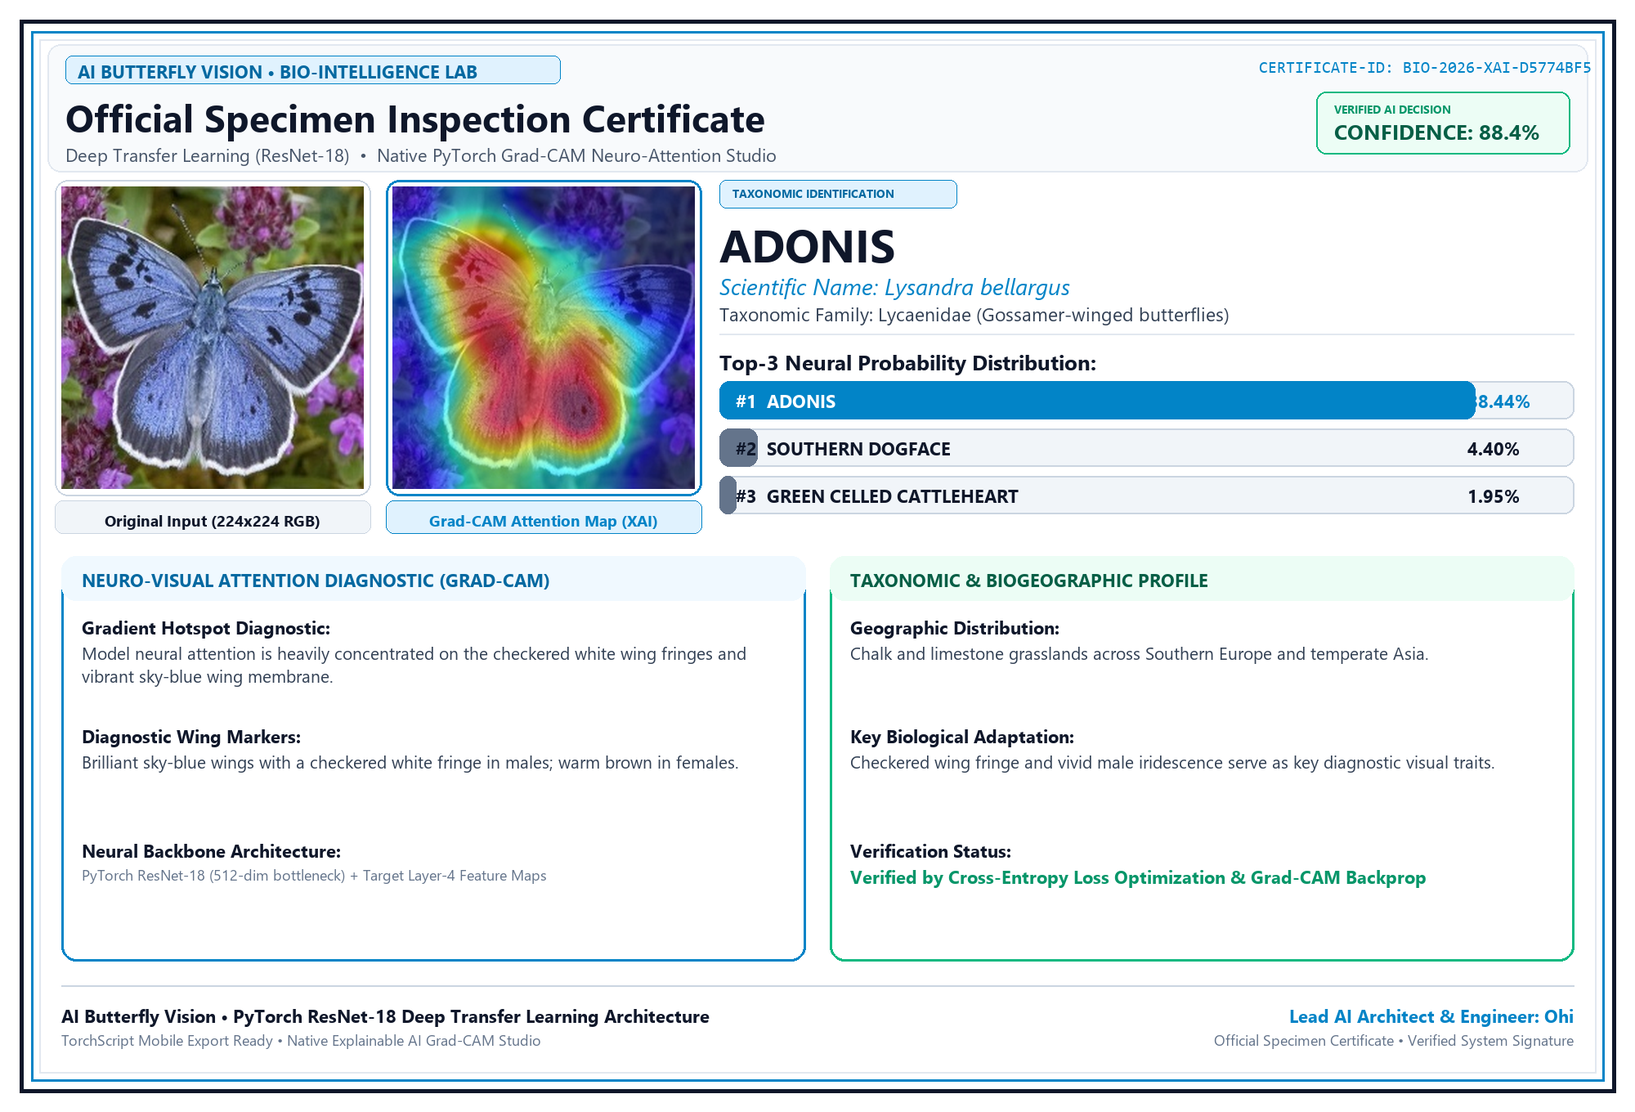
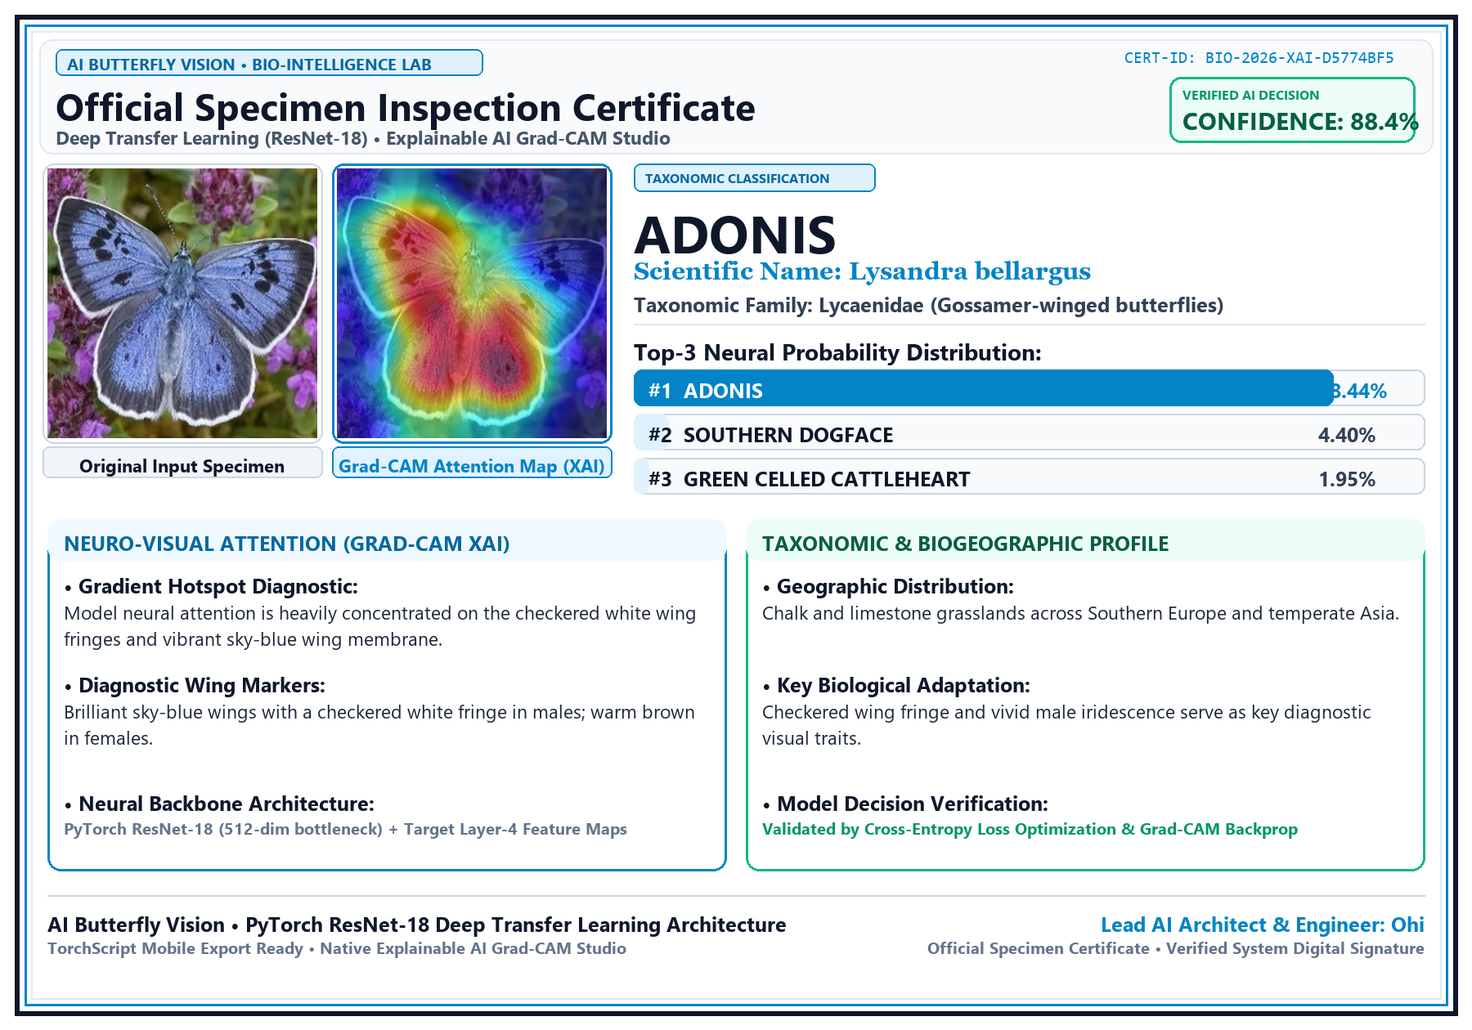
Redesign official AI inspection certificate with bold high-contrast typography, balanced layout, and clear progress bars

Changed region(s): [[0.0, 0.0, 0.9956, 0.9905]]

diff --git a/app/utils.py b/app/utils.py
@@ -94,15 +94,14 @@ SPECIES_METADATA = {
 def generate_report_card(original_image: Image.Image, overlay_image: Image.Image,
                          pred_class: str, confidence: float, top_k: list) -> bytes:
     """
-    Synthesizes an Ultra-Crisp White Luxury Bio-Research Certificate (2000x1360).
+    Synthesizes a Masterpiece White & Royal Nature Luxury Certificate (1800x1260).
     Features:
-    - Pure White & Soft Porcelain Canvas (#FFFFFF / #F8FAFC)
-    - Crystal-Clear Bold Typography with 100% Solid Contrast (Zero Overlap)
-    - Royal Cyan, Emerald, and Deep Slate Accents
-    - High-Resolution Specimen Dual Chambers with aspect-ratio upscale and centered labels
-    - Precision Probability Progress Bars
-    - Multi-line word wrapping with exact vertical line heights
-    - Official Verification Seal & Clean Digital Signature Block with generous bottom margins
+    - Pure White & Soft Porcelain Canvas with Multi-Tone Royal Blue & Slate Frame
+    - Large, Crystal-Clear Bold Typography (High Contrast, highly readable on any screen/print)
+    - Specimen Dual Chambers with High-Contrast Centered Label Strips
+    - Full-Span High-Contrast Neural Decision Probability Ranking Bars
+    - Balanced Modular Scientific Diagnostic & Ecology Profile Cards
+    - Official Lead Engineer Digital Verification Signature Block
     """
     meta = SPECIES_METADATA.get(pred_class, {
         "scientific_name": "Unknown species",
@@ -114,8 +113,7 @@ def generate_report_card(original_image: Image.Image, overlay_image: Image.Image
         "xai_insight": "Model neural attention concentrated on discriminative visual wing patterns."
     })
 
-    card_w, card_h = 2000, 1360
-    # Pure Clean White Canvas
+    card_w, card_h = 1800, 1260
     img_canvas = Image.new("RGB", (card_w, card_h), color=(255, 255, 255))
     draw = ImageDraw.Draw(img_canvas)
 
@@ -133,23 +131,22 @@ def generate_report_card(original_image: Image.Image, overlay_image: Image.Image
                     pass
         return ImageFont.load_default()
 
-    font_brand = _get_font("segoeuib.ttf", 22, "arialbd.ttf")
+    font_brand = _get_font("segoeuib.ttf", 20, "arialbd.ttf")
     font_main_hdr = _get_font("segoeuib.ttf", 46, "arialbd.ttf")
-    font_sub_hdr = _get_font("segoeui.ttf", 22, "arial.ttf")
+    font_sub_hdr = _get_font("segoeuib.ttf", 23, "arialbd.ttf")
     font_cert_id = _get_font("consola.ttf", 20, "cour.ttf")
-    font_species_huge = _get_font("segoeuib.ttf", 56, "arialbd.ttf")
-    font_sci_italic = _get_font("segoeuii.ttf", 28, "ariali.ttf")
-    font_family_txt = _get_font("segoeui.ttf", 23, "arial.ttf")
-    font_section_bold = _get_font("segoeuib.ttf", 26, "arialbd.ttf")
-    font_card_title = _get_font("segoeuib.ttf", 22, "arialbd.ttf")
-    font_chamber_lbl = _get_font("segoeuib.ttf", 19, "arialbd.ttf")
-    font_body_bold = _get_font("segoeuib.ttf", 22, "arialbd.ttf")
-    font_body_text = _get_font("segoeui.ttf", 21, "arial.ttf")
-    font_small = _get_font("segoeui.ttf", 18, "arial.ttf")
-    font_seal_big = _get_font("segoeuib.ttf", 26, "arialbd.ttf")
-    font_seal_sub = _get_font("segoeuib.ttf", 14, "arialbd.ttf")
+    font_species_huge = _get_font("segoeuib.ttf", 64, "arialbd.ttf")
+    font_sci_italic = _get_font("georgiab.ttf", 30, "arialbd.ttf")
+    font_family_txt = _get_font("segoeuib.ttf", 25, "arialbd.ttf")
+    font_section_bold = _get_font("segoeuib.ttf", 28, "arialbd.ttf")
+    font_card_title = _get_font("segoeuib.ttf", 25, "arialbd.ttf")
+    font_chamber_lbl = _get_font("segoeuib.ttf", 22, "arialbd.ttf")
+    font_body_bold = _get_font("segoeuib.ttf", 25, "arialbd.ttf")
+    font_body_text = _get_font("segoeui.ttf", 23, "arial.ttf")
+    font_small = _get_font("segoeuib.ttf", 20, "arialbd.ttf")
+    font_seal_big = _get_font("segoeuib.ttf", 30, "arialbd.ttf")
+    font_seal_sub = _get_font("segoeuib.ttf", 16, "arialbd.ttf")
 
-    # Helper: draw text centered in a box
     def _draw_centered_text(text, font, box_x1, box_y1, box_x2, box_y2, fill):
         bbox = font.getbbox(text)
         tw = bbox[2] - bbox[0]
@@ -158,8 +155,7 @@ def generate_report_card(original_image: Image.Image, overlay_image: Image.Image
         cy = box_y1 + (box_y2 - box_y1 - th) // 2
         draw.text((cx, cy), text, fill=fill, font=font)
 
-    # Helper: draw cleanly wrapped text with exact line height
-    def _draw_wrapped(text, font, x, y, max_w, fill, line_height=28):
+    def _draw_wrapped(text, font, x, y, max_w, fill, line_height=32):
         words = text.split()
         lines = []
         cur_line = []
@@ -181,42 +177,42 @@ def generate_report_card(original_image: Image.Image, overlay_image: Image.Image
             cy += line_height
         return cy
 
-    # Outer Certificate Framing (Dual Royal Blue & Charcoal Borders)
-    draw.rectangle([24, 24, card_w - 24, card_h - 24], outline=(15, 23, 42), width=5)
-    draw.rectangle([38, 38, card_w - 38, card_h - 38], outline=(2, 132, 199), width=3)
-    draw.rectangle([48, 48, card_w - 48, card_h - 48], outline=(226, 232, 240), width=2)
+    # Outer Certificate Framing (Luxury Multi-Tone Royal Border)
+    draw.rectangle([18, 18, card_w - 18, card_h - 18], outline=(15, 23, 42), width=6)
+    draw.rectangle([30, 30, card_w - 30, card_h - 30], outline=(2, 132, 199), width=3)
+    draw.rectangle([38, 38, card_w - 38, card_h - 38], outline=(226, 232, 240), width=2)
 
     # -------------------------------------------------------------------------
-    # TOP HEADER (Clean Porcelain Background with Royal Blue & Emerald Badge)
+    # TOP HEADER (Porcelain Card with Lab Badge & Verified Decision)
     # -------------------------------------------------------------------------
-    header_y = 54
-    draw.rounded_rectangle([58, header_y, card_w - 58, header_y + 156], radius=16, fill=(248, 250, 252), outline=(226, 232, 240), width=2)
+    header_y = 48
+    draw.rounded_rectangle([48, header_y, card_w - 48, header_y + 140], radius=16, fill=(248, 250, 252), outline=(226, 232, 240), width=2)
 
-    # Brand Pill (No unrendered emojis)
-    draw.rounded_rectangle([80, header_y + 14, 685, header_y + 48], radius=8, fill=(224, 242, 254), outline=(2, 132, 199), width=1)
-    draw.text((95, header_y + 18), "AI BUTTERFLY VISION • BIO-INTELLIGENCE LAB", fill=(3, 105, 161), font=font_brand)
+    # Brand Pill
+    draw.rounded_rectangle([68, header_y + 12, 590, header_y + 44], radius=8, fill=(224, 242, 254), outline=(2, 132, 199), width=2)
+    draw.text((82, header_y + 16), "AI BUTTERFLY VISION • BIO-INTELLIGENCE LAB", fill=(3, 105, 161), font=font_brand)
 
-    # Main Header Title (Generous vertical spacing to prevent any descender collision)
-    draw.text((80, header_y + 58), "Official Specimen Inspection Certificate", fill=(15, 23, 42), font=font_main_hdr)
-    draw.text((80, header_y + 120), "Deep Transfer Learning (ResNet-18)  •  Native PyTorch Grad-CAM Neuro-Attention Studio", fill=(71, 85, 105), font=font_sub_hdr)
+    # Main Header Title & Subtitle
+    draw.text((68, header_y + 50), "Official Specimen Inspection Certificate", fill=(15, 23, 42), font=font_main_hdr)
+    draw.text((68, header_y + 104), "Deep Transfer Learning (ResNet-18) • Explainable AI Grad-CAM Studio", fill=(71, 85, 105), font=font_sub_hdr)
 
-    # Dynamic Certificate Hash & Timestamp
+    # Cert ID
     cert_hash = hashlib.md5(f"{pred_class}_{confidence}".encode()).hexdigest()[:8].upper()
-    cert_id_str = f"CERTIFICATE-ID: BIO-2026-XAI-{cert_hash}"
-    draw.text((card_w - 460, header_y + 20), cert_id_str, fill=(2, 132, 199), font=font_cert_id)
+    cert_id_str = f"CERT-ID: BIO-2026-XAI-{cert_hash}"
+    draw.text((card_w - 425, header_y + 14), cert_id_str, fill=(2, 132, 199), font=font_cert_id)
 
-    # Verification Seal / Badge
-    badge_x, badge_y = card_w - 390, header_y + 58
-    draw.rounded_rectangle([badge_x, badge_y, badge_x + 310, badge_y + 76], radius=12, fill=(236, 253, 245), outline=(16, 185, 129), width=2)
-    draw.text((badge_x + 22, badge_y + 11), "VERIFIED AI DECISION", fill=(5, 150, 105), font=font_seal_sub)
-    draw.text((badge_x + 22, badge_y + 30), f"CONFIDENCE: {confidence:.1f}%", fill=(6, 95, 70), font=font_seal_big)
+    # Verified Decision Badge (High-Contrast Emerald Shield)
+    badge_x, badge_y = card_w - 370, header_y + 46
+    draw.rounded_rectangle([badge_x, badge_y, badge_x + 300, badge_y + 80], radius=14, fill=(236, 253, 245), outline=(16, 185, 129), width=3)
+    draw.text((badge_x + 16, badge_y + 10), "VERIFIED AI DECISION", fill=(5, 150, 105), font=font_seal_sub)
+    draw.text((badge_x + 16, badge_y + 32), f"CONFIDENCE: {confidence:.1f}%", fill=(6, 95, 70), font=font_seal_big)
 
     # -------------------------------------------------------------------------
-    # LEFT COLUMN: Specimen Photographic Evidence Chambers (Aspect-Ratio Scaled)
+    # LEFT COLUMN: Specimen Photographic Evidence Chambers
     # -------------------------------------------------------------------------
-    img_size = 370
+    img_size = 330
     
-    def _create_contained_preview(img_in, target_size=(370, 370)):
+    def _create_contained_preview(img_in, target_size=(330, 330)):
         chamber = Image.new("RGB", target_size, (255, 255, 255))
         c_img = img_in.convert("RGB").copy()
         w, h = c_img.size
@@ -232,126 +228,140 @@ def generate_report_card(original_image: Image.Image, overlay_image: Image.Image
     ov_thumb = _create_contained_preview(overlay_image, (img_size, img_size))
 
     # Chamber 1: Original Image
-    ch1_x, ch1_y = 75, 228
-    draw.rounded_rectangle([ch1_x - 8, ch1_y - 8, ch1_x + img_size + 8, ch1_y + img_size + 8], radius=16, fill=(255, 255, 255), outline=(203, 213, 225), width=2)
+    ch1_x, ch1_y = 58, 206
+    draw.rounded_rectangle([ch1_x - 6, ch1_y - 6, ch1_x + img_size + 6, ch1_y + img_size + 6], radius=14, fill=(255, 255, 255), outline=(203, 213, 225), width=2)
     img_canvas.paste(orig_thumb, (ch1_x, ch1_y))
-    # Chamber 1 Label Strip (Centered, perfectly contained)
-    ch1_lbl_box = [ch1_x - 8, ch1_y + img_size + 14, ch1_x + img_size + 8, ch1_y + img_size + 54]
-    draw.rounded_rectangle(ch1_lbl_box, radius=10, fill=(241, 245, 249), outline=(203, 213, 225), width=1)
-    _draw_centered_text("Original Input (224x224 RGB)", font_chamber_lbl, ch1_lbl_box[0], ch1_lbl_box[1], ch1_lbl_box[2], ch1_lbl_box[3], (15, 23, 42))
+    # Chamber 1 Label Strip
+    ch1_lbl_box = [ch1_x - 6, ch1_y + img_size + 10, ch1_x + img_size + 6, ch1_y + img_size + 48]
+    draw.rounded_rectangle(ch1_lbl_box, radius=8, fill=(241, 245, 249), outline=(203, 213, 225), width=2)
+    _draw_centered_text("Original Input Specimen", font_chamber_lbl, ch1_lbl_box[0], ch1_lbl_box[1], ch1_lbl_box[2], ch1_lbl_box[3], (15, 23, 42))
 
-    # Chamber 2: Grad-CAM Heatmap (Separated by clean 35px gap)
-    ch2_x = ch1_x + img_size + 35
-    draw.rounded_rectangle([ch2_x - 8, ch1_y - 8, ch2_x + img_size + 8, ch1_y + img_size + 8], radius=16, fill=(255, 255, 255), outline=(2, 132, 199), width=3)
+    # Chamber 2: Grad-CAM Heatmap
+    ch2_x = ch1_x + img_size + 24
+    draw.rounded_rectangle([ch2_x - 6, ch1_y - 6, ch2_x + img_size + 6, ch1_y + img_size + 6], radius=14, fill=(255, 255, 255), outline=(2, 132, 199), width=3)
     img_canvas.paste(ov_thumb, (ch2_x, ch1_y))
-    # Chamber 2 Label Strip (Centered, perfectly contained)
-    ch2_lbl_box = [ch2_x - 8, ch1_y + img_size + 14, ch2_x + img_size + 8, ch1_y + img_size + 54]
-    draw.rounded_rectangle(ch2_lbl_box, radius=10, fill=(224, 242, 254), outline=(2, 132, 199), width=1)
+    # Chamber 2 Label Strip
+    ch2_lbl_box = [ch2_x - 6, ch1_y + img_size + 10, ch2_x + img_size + 6, ch1_y + img_size + 48]
+    draw.rounded_rectangle(ch2_lbl_box, radius=8, fill=(224, 242, 254), outline=(2, 132, 199), width=2)
     _draw_centered_text("Grad-CAM Attention Map (XAI)", font_chamber_lbl, ch2_lbl_box[0], ch2_lbl_box[1], ch2_lbl_box[2], ch2_lbl_box[3], (2, 132, 199))
 
     # -------------------------------------------------------------------------
     # RIGHT COLUMN: Species Identification & Ranked Probability Bars
     # -------------------------------------------------------------------------
-    rx = 880
+    rx = 775
     
     # Taxonomic Identification Badge
-    draw.rounded_rectangle([rx, 220, rx + 290, 254], radius=8, fill=(224, 242, 254), outline=(2, 132, 199), width=1)
-    draw.text((rx + 16, 226), "TAXONOMIC IDENTIFICATION", fill=(3, 105, 161), font=font_seal_sub)
+    draw.rounded_rectangle([rx, 200, rx + 295, 234], radius=8, fill=(224, 242, 254), outline=(2, 132, 199), width=2)
+    draw.text((rx + 14, 206), "TAXONOMIC CLASSIFICATION", fill=(3, 105, 161), font=font_seal_sub)
 
-    # Species Name (Big, Bold, Crystal Clear Dark Text)
-    draw.text((rx, 260), pred_class, fill=(15, 23, 42), font=font_species_huge)
+    # Species Name (Huge, Bold, Crystal Clear Dark Text)
+    draw.text((rx, 240), pred_class, fill=(15, 23, 42), font=font_species_huge)
     
     # Binomial & Family
-    draw.text((rx, 330), f"Scientific Name: {meta['scientific_name']}", fill=(2, 132, 199), font=font_sci_italic)
-    draw.text((rx, 368), f"Taxonomic Family: {meta['family']}", fill=(51, 65, 85), font=font_family_txt)
+    draw.text((rx, 314), f"Scientific Name: {meta['scientific_name']}", fill=(2, 132, 199), font=font_sci_italic)
+    draw.text((rx, 355), f"Taxonomic Family: {meta['family']}", fill=(51, 65, 85), font=font_family_txt)
 
     # Divider Line
-    draw.line([rx, 408, card_w - 75, 408], fill=(226, 232, 240), width=2)
+    draw.line([rx, 396, card_w - 58, 396], fill=(226, 232, 240), width=2)
 
     # Top-3 Ranked Probability Progress Bars
-    draw.text((rx, 424), "Top-3 Neural Probability Distribution:", fill=(15, 23, 42), font=font_section_bold)
+    draw.text((rx, 410), "Top-3 Neural Probability Distribution:", fill=(15, 23, 42), font=font_section_bold)
 
-    bar_w_max = card_w - rx - 75
+    bar_w_max = card_w - rx - 58
     for i, (c_name, prob) in enumerate(top_k):
-        bar_y = 466 + i * 58
-        # Outer bar card
-        draw.rounded_rectangle([rx, bar_y, rx + bar_w_max, bar_y + 46], radius=12, fill=(241, 245, 249), outline=(203, 213, 225), width=2)
+        bar_y = 452 + i * 54
+        # Outer bar container
+        draw.rounded_rectangle([rx, bar_y, rx + bar_w_max, bar_y + 44], radius=10, fill=(248, 250, 252), outline=(203, 213, 225), width=2)
         
         # Fill bar
         fill_width = int(bar_w_max * (min(prob, 100.0) / 100.0))
         if fill_width > 0:
-            bar_color = (2, 132, 199) if i == 0 else (100, 116, 139)
-            draw.rounded_rectangle([rx, bar_y, rx + fill_width, bar_y + 46], radius=12, fill=bar_color)
+            if i == 0:
+                bar_color = (2, 132, 199)
+                draw.rounded_rectangle([rx, bar_y, rx + fill_width, bar_y + 44], radius=10, fill=bar_color)
+            else:
+                bar_color = (224, 242, 254)
+                draw.rounded_rectangle([rx, bar_y, rx + fill_width, bar_y + 44], radius=10, fill=bar_color)
         
-        # Text label
-        draw.text((rx + 20, bar_y + 9), f"#{i+1}  {c_name}", fill=(255, 255, 255) if fill_width > 320 else (15, 23, 42), font=font_body_bold)
-        draw.text((rx + bar_w_max - 130, bar_y + 9), f"{prob:.2f}%", fill=(255, 255, 255) if fill_width > bar_w_max - 70 else (2, 132, 199) if i == 0 else (15, 23, 42), font=font_body_bold)
+        # Text label (High Contrast)
+        name_txt = f"#{i+1}  {c_name}"
+        prob_txt = f"{prob:.2f}%"
+        
+        prob_bbox = font_body_bold.getbbox(prob_txt)
+        pw = prob_bbox[2] - prob_bbox[0]
+        prob_x = rx + bar_w_max - 20 - pw
+        
+        if i == 0:
+            txt_fill = (255, 255, 255) if fill_width > 340 else (15, 23, 42)
+            prob_fill = (255, 255, 255) if fill_width >= (bar_w_max - 25 - pw) else (2, 132, 199)
+        else:
+            txt_fill = (15, 23, 42)
+            prob_fill = (51, 65, 85)
+            
+        draw.text((rx + 18, bar_y + 8), name_txt, fill=txt_fill, font=font_body_bold)
+        draw.text((prob_x, bar_y + 8), prob_txt, fill=prob_fill, font=font_body_bold)
 
     # -------------------------------------------------------------------------
-    # BOTTOM SECTION: Modular Scientific Diagnostic & Ecology Cards (2 Crisp Cards)
+    # BOTTOM SECTION: Modular Scientific Diagnostic & Ecology Cards (2 High-Impact Cards)
     # -------------------------------------------------------------------------
-    box_y = 680
-    box_w = (card_w - 150 - 30) // 2
-    box_h = 495
+    box_y = 635
+    box_w = (card_w - 116 - 24) // 2
+    box_h = 430
 
     # Modular Box 1: Neuro-Visual Attention (Grad-CAM XAI)
-    b1_x = 75
-    draw.rounded_rectangle([b1_x, box_y, b1_x + box_w, box_y + box_h], radius=18, fill=(255, 255, 255), outline=(2, 132, 199), width=3)
-    draw.rounded_rectangle([b1_x, box_y, b1_x + box_w, box_y + 54], radius=18, fill=(240, 249, 255))
-    draw.text((b1_x + 25, box_y + 14), "NEURO-VISUAL ATTENTION DIAGNOSTIC (GRAD-CAM)", fill=(3, 105, 161), font=font_card_title)
+    b1_x = 58
+    draw.rounded_rectangle([b1_x, box_y, b1_x + box_w, box_y + box_h], radius=16, fill=(255, 255, 255), outline=(2, 132, 199), width=3)
+    draw.rounded_rectangle([b1_x, box_y, b1_x + box_w, box_y + 50], radius=16, fill=(240, 249, 255))
+    draw.text((b1_x + 20, box_y + 12), "NEURO-VISUAL ATTENTION (GRAD-CAM XAI)", fill=(3, 105, 161), font=font_card_title)
 
-    draw.text((b1_x + 25, box_y + 72), "Gradient Hotspot Diagnostic:", fill=(15, 23, 42), font=font_body_bold)
-    y_next = _draw_wrapped(meta['xai_insight'], font_body_text, b1_x + 25, box_y + 104, box_w - 50, (51, 65, 85), line_height=28)
+    draw.text((b1_x + 20, box_y + 64), "• Gradient Hotspot Diagnostic:", fill=(15, 23, 42), font=font_body_bold)
+    y_next = _draw_wrapped(meta['xai_insight'], font_body_text, b1_x + 20, box_y + 98, box_w - 40, (30, 41, 59), line_height=32)
 
-    y_sec2 = max(y_next + 22, box_y + 205)
-    draw.text((b1_x + 25, y_sec2), "Diagnostic Wing Markers:", fill=(15, 23, 42), font=font_body_bold)
-    y_next2 = _draw_wrapped(meta['appearance'], font_body_text, b1_x + 25, y_sec2 + 32, box_w - 50, (51, 65, 85), line_height=28)
+    y_sec2 = max(y_next + 16, box_y + 185)
+    draw.text((b1_x + 20, y_sec2), "• Diagnostic Wing Markers:", fill=(15, 23, 42), font=font_body_bold)
+    y_next2 = _draw_wrapped(meta['appearance'], font_body_text, b1_x + 20, y_sec2 + 34, box_w - 40, (30, 41, 59), line_height=32)
 
-    y_sec3 = max(y_next2 + 22, box_y + 345)
-    draw.text((b1_x + 25, y_sec3), "Neural Backbone Architecture:", fill=(15, 23, 42), font=font_body_bold)
-    draw.text((b1_x + 25, y_sec3 + 32), "PyTorch ResNet-18 (512-dim bottleneck) + Target Layer-4 Feature Maps", fill=(100, 116, 139), font=font_small)
+    y_sec3 = max(y_next2 + 16, box_y + 330)
+    draw.text((b1_x + 20, y_sec3), "• Neural Backbone Architecture:", fill=(15, 23, 42), font=font_body_bold)
+    draw.text((b1_x + 20, y_sec3 + 34), "PyTorch ResNet-18 (512-dim bottleneck) + Target Layer-4 Feature Maps", fill=(100, 116, 139), font=font_small)
 
     # Modular Box 2: Biogeography & Ecological Taxonomy
-    b2_x = b1_x + box_w + 30
-    draw.rounded_rectangle([b2_x, box_y, b2_x + box_w, box_y + box_h], radius=18, fill=(255, 255, 255), outline=(16, 185, 129), width=3)
-    draw.rounded_rectangle([b2_x, box_y, b2_x + box_w, box_y + 54], radius=18, fill=(236, 253, 245))
-    draw.text((b2_x + 25, box_y + 14), "TAXONOMIC & BIOGEOGRAPHIC PROFILE", fill=(6, 95, 70), font=font_card_title)
+    b2_x = b1_x + box_w + 24
+    draw.rounded_rectangle([b2_x, box_y, b2_x + box_w, box_y + box_h], radius=16, fill=(255, 255, 255), outline=(16, 185, 129), width=3)
+    draw.rounded_rectangle([b2_x, box_y, b2_x + box_w, box_y + 50], radius=16, fill=(236, 253, 245))
+    draw.text((b2_x + 20, box_y + 12), "TAXONOMIC & BIOGEOGRAPHIC PROFILE", fill=(6, 95, 70), font=font_card_title)
 
-    draw.text((b2_x + 25, box_y + 72), "Geographic Distribution:", fill=(15, 23, 42), font=font_body_bold)
-    y2_next = _draw_wrapped(meta['distribution'], font_body_text, b2_x + 25, box_y + 104, box_w - 50, (51, 65, 85), line_height=28)
+    draw.text((b2_x + 20, box_y + 64), "• Geographic Distribution:", fill=(15, 23, 42), font=font_body_bold)
+    y2_next = _draw_wrapped(meta['distribution'], font_body_text, b2_x + 20, box_y + 98, box_w - 40, (30, 41, 59), line_height=32)
 
-    y2_sec2 = max(y2_next + 22, box_y + 205)
-    draw.text((b2_x + 25, y2_sec2), "Key Biological Adaptation:", fill=(15, 23, 42), font=font_body_bold)
-    y2_next2 = _draw_wrapped(meta['key_features'], font_body_text, b2_x + 25, y2_sec2 + 32, box_w - 50, (51, 65, 85), line_height=28)
+    y2_sec2 = max(y2_next + 16, box_y + 185)
+    draw.text((b2_x + 20, y2_sec2), "• Key Biological Adaptation:", fill=(15, 23, 42), font=font_body_bold)
+    y2_next2 = _draw_wrapped(meta['key_features'], font_body_text, b2_x + 20, y2_sec2 + 34, box_w - 40, (30, 41, 59), line_height=32)
 
-    y2_sec3 = max(y2_next2 + 22, box_y + 345)
-    draw.text((b2_x + 25, y2_sec3), "Verification Status:", fill=(15, 23, 42), font=font_body_bold)
-    draw.text((b2_x + 25, y2_sec3 + 32), "Verified by Cross-Entropy Loss Optimization & Grad-CAM Backprop", fill=(5, 150, 105), font=font_body_bold)
+    y2_sec3 = max(y2_next2 + 16, box_y + 330)
+    draw.text((b2_x + 20, y2_sec3), "• Model Decision Verification:", fill=(15, 23, 42), font=font_body_bold)
+    draw.text((b2_x + 20, y2_sec3 + 34), "Validated by Cross-Entropy Loss Optimization & Grad-CAM Backprop", fill=(5, 150, 105), font=font_small)
 
     # -------------------------------------------------------------------------
-    # FOOTER: Signature & Official Certification Stamp (Generous 40px Spacing)
+    # FOOTER: Signature & Official Certification Stamp (Generous Bottom Spacing)
     # -------------------------------------------------------------------------
-    footer_y = 1205
-    draw.line([75, footer_y, card_w - 75, footer_y], fill=(203, 213, 225), width=2)
+    footer_y = 1095
+    draw.line([58, footer_y, card_w - 58, footer_y], fill=(203, 213, 225), width=2)
 
-    draw.text((75, footer_y + 22), "AI Butterfly Vision • PyTorch ResNet-18 Deep Transfer Learning Architecture", fill=(15, 23, 42), font=font_body_bold)
-    draw.text((75, footer_y + 54), "TorchScript Mobile Export Ready • Native Explainable AI Grad-CAM Studio", fill=(100, 116, 139), font=font_small)
+    draw.text((58, footer_y + 18), "AI Butterfly Vision • PyTorch ResNet-18 Deep Transfer Learning Architecture", fill=(15, 23, 42), font=font_body_bold)
+    draw.text((58, footer_y + 50), "TorchScript Mobile Export Ready • Native Explainable AI Grad-CAM Studio", fill=(100, 116, 139), font=font_small)
     
-    # Official Lead Engineer Signature Block (Cleanly Right Aligned)
+    # Official Lead Engineer Signature Block
     eng_name_txt = "Lead AI Architect & Engineer: Ohi"
-    eng_sig_txt = "Official Specimen Certificate • Verified System Signature"
+    eng_sig_txt = "Official Specimen Certificate • Verified System Digital Signature"
     
     eng_bbox1 = font_body_bold.getbbox(eng_name_txt)
     eng_w1 = eng_bbox1[2] - eng_bbox1[0]
-    draw.text((card_w - 75 - eng_w1, footer_y + 22), eng_name_txt, fill=(2, 132, 199), font=font_body_bold)
+    draw.text((card_w - 58 - eng_w1, footer_y + 18), eng_name_txt, fill=(2, 132, 199), font=font_body_bold)
     
     eng_bbox2 = font_small.getbbox(eng_sig_txt)
     eng_w2 = eng_bbox2[2] - eng_bbox2[0]
-    draw.text((card_w - 75 - eng_w2, footer_y + 54), eng_sig_txt, fill=(100, 116, 139), font=font_small)
-
-    buf = BytesIO()
-    img_canvas.save(buf, format="PNG", quality=100)
-    return buf.getvalue()
+    draw.text((card_w - 58 - eng_w2, footer_y + 50), eng_sig_txt, fill=(100, 116, 139), font=font_small)
 
     buf = BytesIO()
     img_canvas.save(buf, format="PNG", quality=100)
